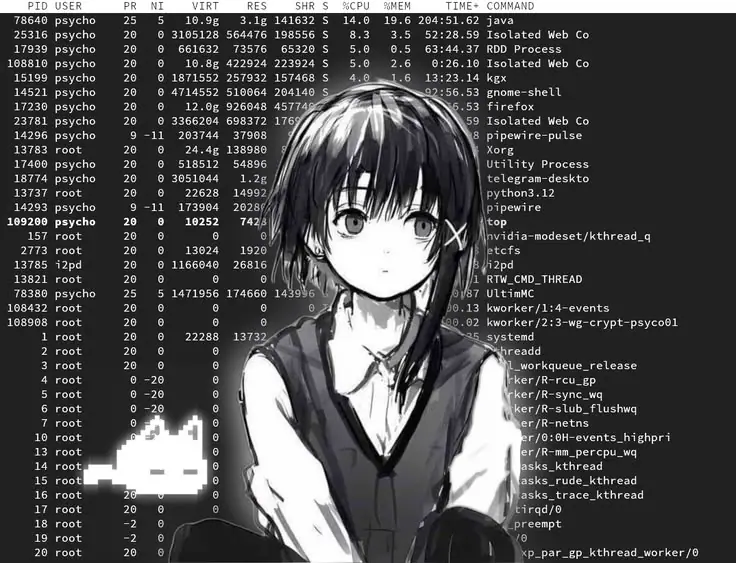
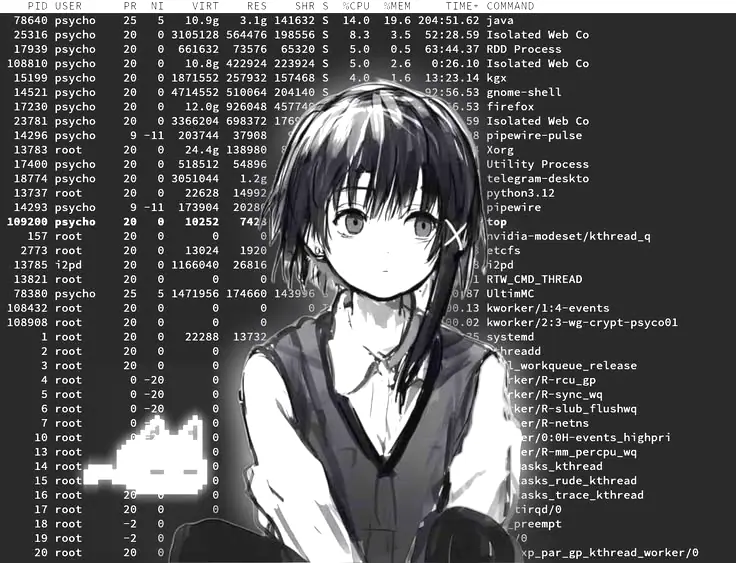
Lift the artwork so it reads at rail size

diff --git a/src/app/login/page.tsx b/src/app/login/page.tsx
@@ -120,7 +120,7 @@ export default async function LoginPage({ searchParams }: { searchParams: Promis
               height={563}
               priority
               sizes="300px"
-              className="h-full w-full select-none object-cover object-top opacity-85 grayscale"
+              className="h-full w-full select-none object-cover object-top grayscale"
             />
             <span
               aria-hidden
